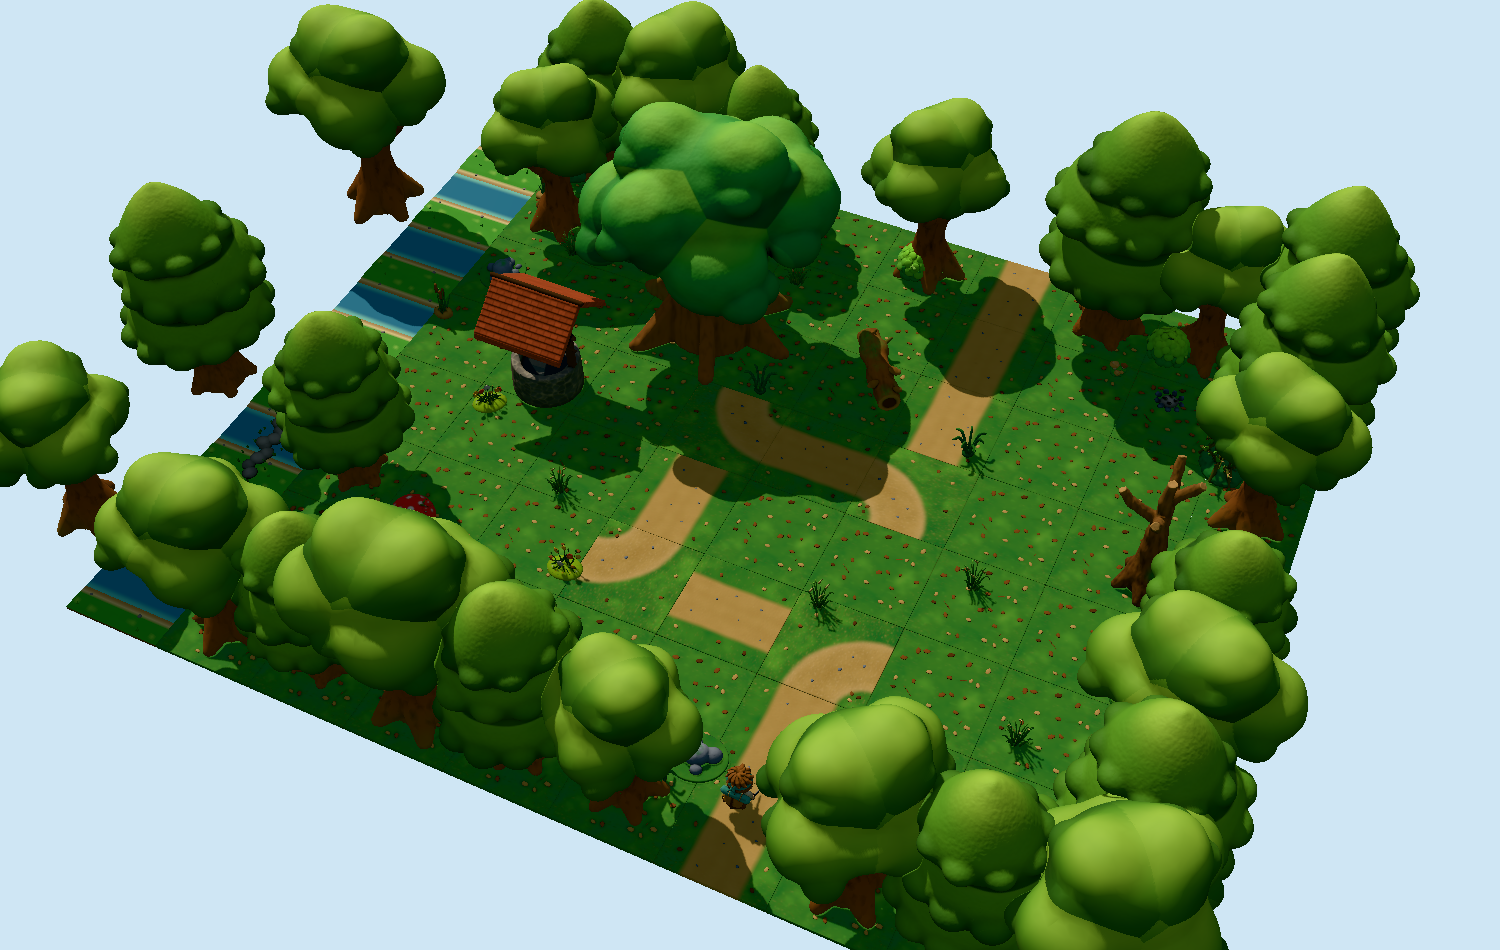
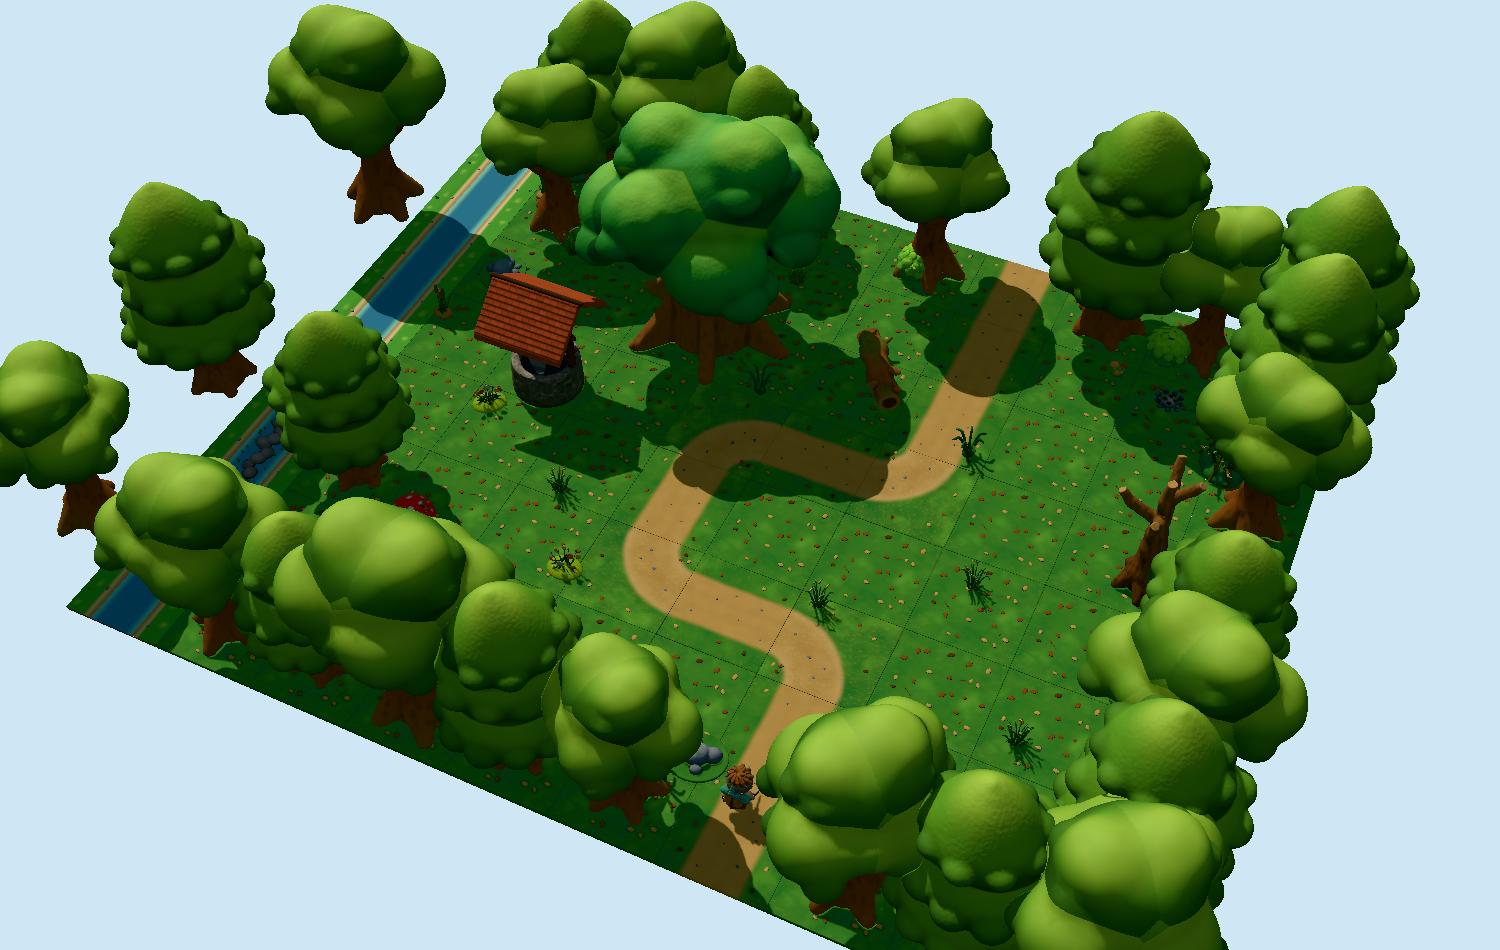
fix(forest): join the clearing trail — correct corner yaws and the river run
The corner tile's bend axis is its NE corner, so its yaw-0 mouths are
{N,E}, not the {S,E} the map table assumed; the four bend yaws are now
180/0/270/90 and the S-route is continuous. river-straight runs along Z
at yaw 0, so the west stream no longer lies across its column. The tile
comments now state the true mouths.

diff --git a/scenes/old-oak-clearing.ts b/scenes/old-oak-clearing.ts
@@ -4,14 +4,14 @@ import type { Place } from './chibi-quest.js';
 
 export function oldOakClearingPlaces(): Place[] {
   return [
-  { asset: 'river-straight', at: [-9, 0, -7], yaw: 90 },
-  { asset: 'river-straight', at: [-9, 0, -5], yaw: 90 },
-  { asset: 'river-straight', at: [-9, 0, -3], yaw: 90 },
-  { asset: 'river-straight', at: [-9, 0, -1], yaw: 90 },
-  { asset: 'river-straight', at: [-9, 0, 1], yaw: 90 },
-  { asset: 'river-straight', at: [-9, 0, 3], yaw: 90 },
-  { asset: 'river-straight', at: [-9, 0, 5], yaw: 90 },
-  { asset: 'river-straight', at: [-9, 0, 7], yaw: 90 },
+  { asset: 'river-straight', at: [-9, 0, -7] },
+  { asset: 'river-straight', at: [-9, 0, -5] },
+  { asset: 'river-straight', at: [-9, 0, -3] },
+  { asset: 'river-straight', at: [-9, 0, -1] },
+  { asset: 'river-straight', at: [-9, 0, 1] },
+  { asset: 'river-straight', at: [-9, 0, 3] },
+  { asset: 'river-straight', at: [-9, 0, 5] },
+  { asset: 'river-straight', at: [-9, 0, 7] },
   { asset: 'forest-ground', at: [-7, 0, -7] },
   { asset: 'forest-ground', at: [-7, 0, -5] },
   { asset: 'forest-ground', at: [-7, 0, -3] },
@@ -39,9 +39,9 @@ export function oldOakClearingPlaces(): Place[] {
   { asset: 'forest-ground', at: [-1, 0, -7] },
   { asset: 'forest-ground', at: [-1, 0, -5] },
   { asset: 'forest-ground', at: [-1, 0, -3] },
-  { asset: 'footpath-corner', at: [-1, 0, -1] },
+  { asset: 'footpath-corner', at: [-1, 0, -1], yaw: 270 },
   { asset: 'footpath-straight', at: [-1, 0, 1] },
-  { asset: 'footpath-corner', at: [-1, 0, 3], yaw: 90 },
+  { asset: 'footpath-corner', at: [-1, 0, 3] },
   { asset: 'forest-ground', at: [-1, 0, 5] },
   { asset: 'forest-ground', at: [-1, 0, 7] },
   { asset: 'forest-ground', at: [1, 0, -7] },
@@ -55,9 +55,9 @@ export function oldOakClearingPlaces(): Place[] {
   { asset: 'footpath-straight', at: [3, 0, -7] },
   { asset: 'footpath-straight', at: [3, 0, -5] },
   { asset: 'footpath-straight', at: [3, 0, -3] },
-  { asset: 'footpath-corner', at: [3, 0, -1], yaw: 180 },
+  { asset: 'footpath-corner', at: [3, 0, -1], yaw: 90 },
   { asset: 'forest-ground', at: [3, 0, 1] },
-  { asset: 'footpath-corner', at: [3, 0, 3], yaw: 270 },
+  { asset: 'footpath-corner', at: [3, 0, 3], yaw: 180 },
   { asset: 'footpath-straight', at: [3, 0, 5] },
   { asset: 'footpath-straight', at: [3, 0, 7] },
   { asset: 'forest-ground', at: [5, 0, -7] },

diff --git a/assets/footpath-corner.ts b/assets/footpath-corner.ts
@@ -7,8 +7,8 @@ import { defineAsset, mixRgb, noise, rgb, sdf } from '../src/index.js';
 // paint on one flat slab (same convention as dirt-road-straight), so the height at every tile
 // edge matches a straight footpath tile and the two sit side by side without a seam.
 // One idea: a narrow trodden tan path that sweeps one smooth quarter circle around the inside
-// corner, full-bleed through the midpoints of the south and east edges, melting into shaded
-// forest floor with soft worn shoulders (forest-ground styling).
+// corner, full-bleed through the midpoints of the north and east edges (bend axis at the NE
+// tile corner), melting into shaded forest floor with soft worn shoulders (forest-ground styling).
 // Shape language: rounded and soft (cozy forest); the tile boundary stays square and clean.
 // Palette (forest contract): shaded floor green #4a8a3f / deep #2f7a3f with sunny #7ec850
 // dapples and fallen-leaf specks (55, matches forest-ground), warm tan #c8a86b family (35,
@@ -117,7 +117,7 @@ const LEAF_COLORS = [LEAF_PALE, LEAF_BROWN, LEAF_DEEP] as const;
 export default defineAsset({
   name: 'footpath-corner',
   description:
-    'Modular 2 m forest tile: a narrow tan footpath bending 90 degrees from the south edge to the east edge.',
+    'Modular 2 m forest tile: a narrow tan footpath bending 90 degrees from the north edge to the east edge (bend axis at the NE tile corner).',
   detail: 0.02,
   texture: { size: 1024 },
 
